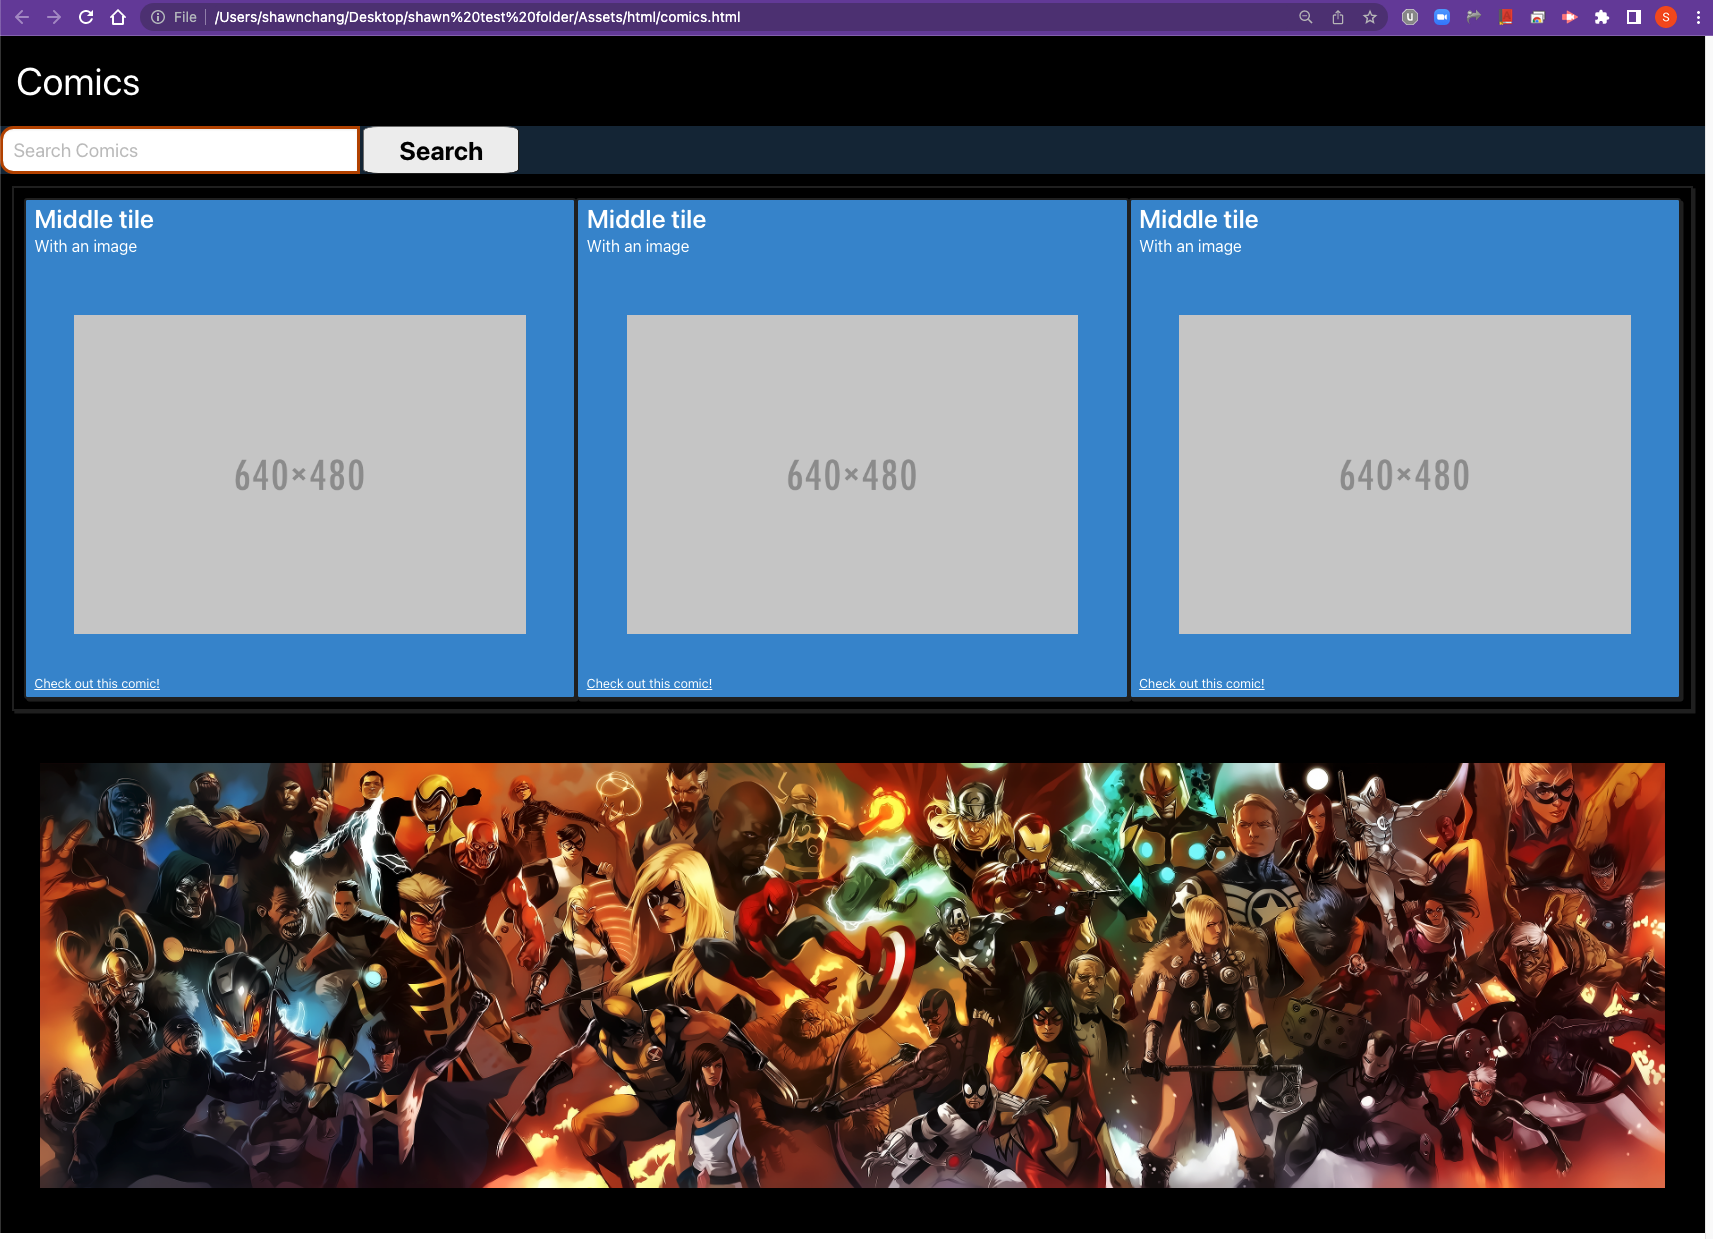
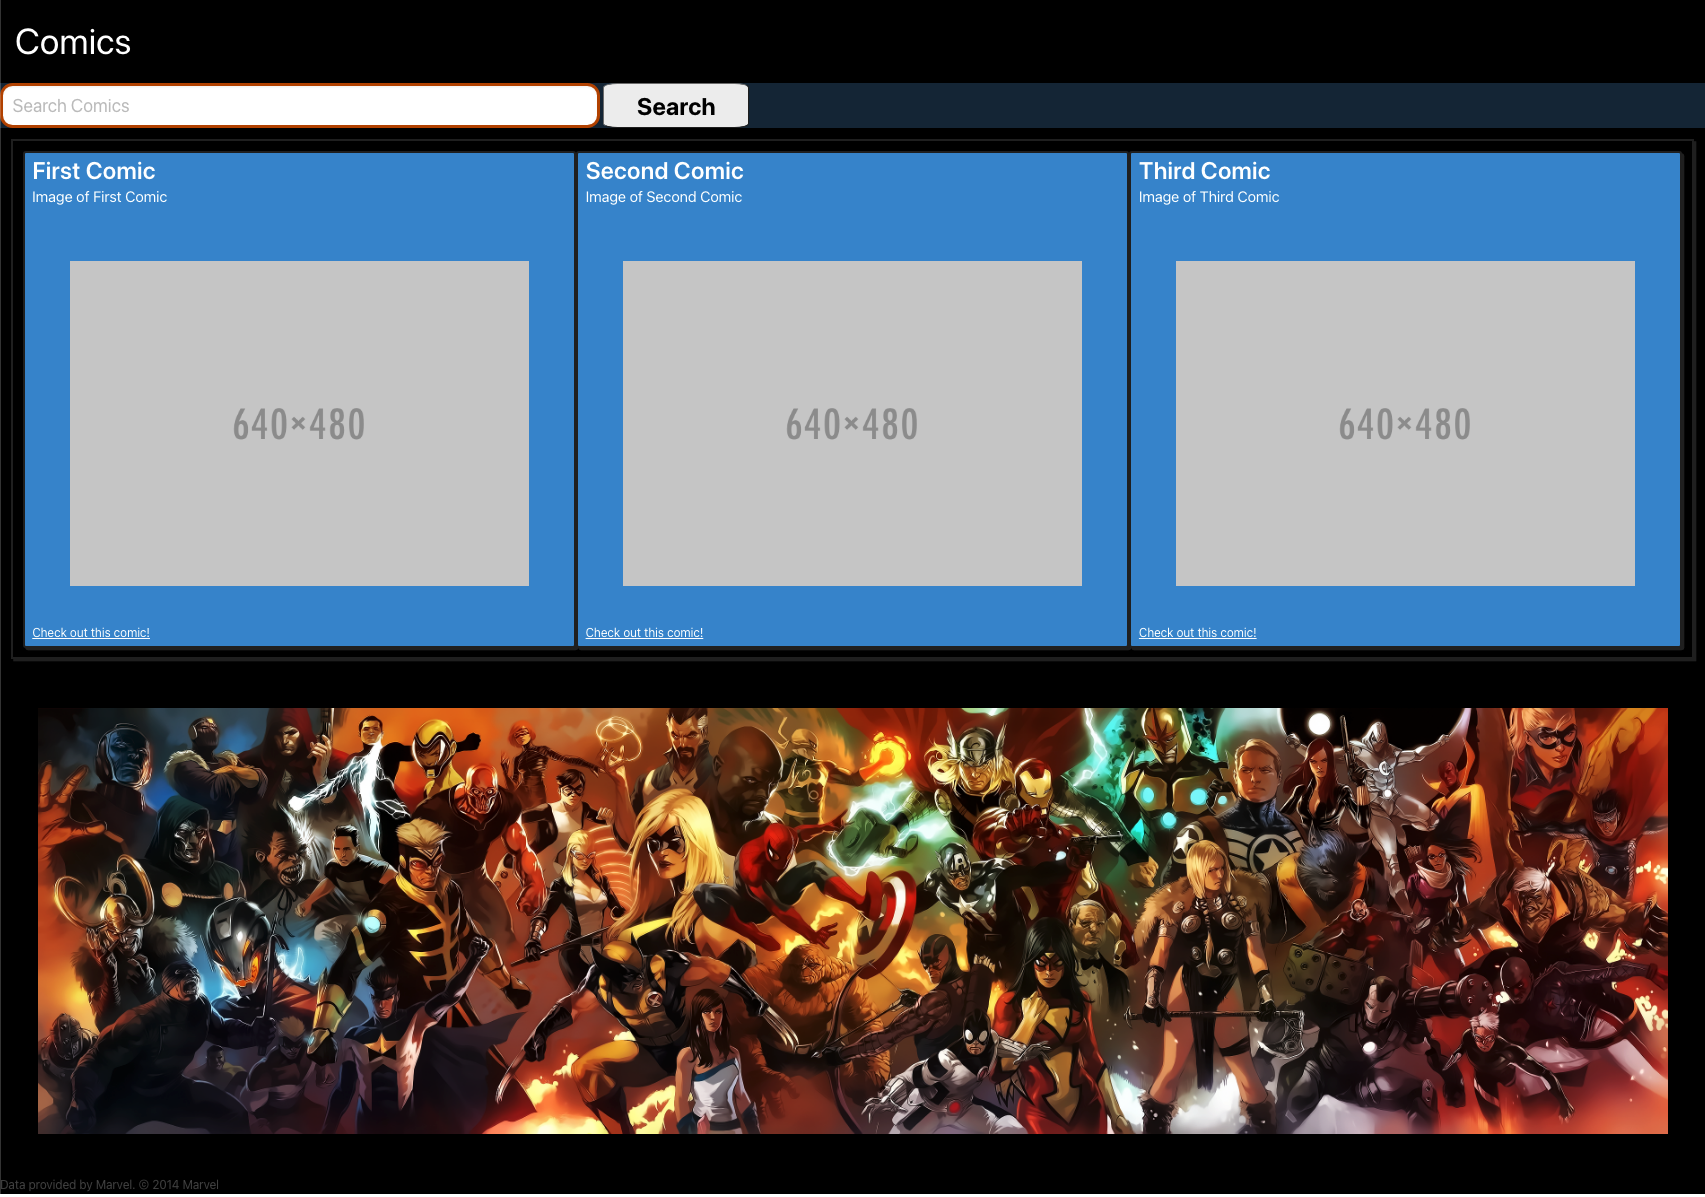
updated Comics html and style css

diff --git a/Assets/html/comics.html b/Assets/html/comics.html
@@ -23,24 +23,24 @@
 </main>
 <div class="tile is-parent">
     <article class="tile is-child notification is-info">
-        <p class="title" id="title1">Middle tile</p>
-        <p class="subtitle" id="sum1">With an image</p>
+        <p class="title" id="title1">First Comic</p>
+        <p class="subtitle" id="sum1">Image of First Comic</p>
         <figure class="image is-4by3">
           <img src="https://bulma.io/images/placeholders/640x480.png" id="comic1">
         </figure>
         <a id="link1">Check out this comic!</a>  
       </article>
       <article class="tile is-child notification is-info">
-        <p class="title" id="title2">Middle tile</p>
-        <p class="subtitle" id="sum2">With an image</p>
+        <p class="title" id="title2">Second Comic</p>
+        <p class="subtitle" id="sum2">Image of Second Comic</p>
         <figure class="image is-4by3">
           <img src="https://bulma.io/images/placeholders/640x480.png" id="comic2">
         </figure>
         <a id="link2">Check out this comic!</a> 
       </article>
     <article class="tile is-child notification is-info">
-      <p class="title" id="title3">Middle tile</p>
-      <p class="subtitle" id="sum3">With an image</p>
+      <p class="title" id="title3">Third Comic</p>
+      <p class="subtitle" id="sum3">Image of Third Comic</p>
       <figure class="image is-4by3">
         <img src="https://bulma.io/images/placeholders/640x480.png" id="comic3">
       </figure>
@@ -51,6 +51,7 @@
 
   <footer>
     <img src="..\images\banner.png" alt="marvel banner">
+    <h2>Data provided by Marvel. © 2014 Marvel</h2>
   </footer>
 
   <script src="https://cdnjs.cloudflare.com/ajax/libs/jquery/3.2.1/jquery.min.js"></script>

diff --git a/Assets/css/style.css b/Assets/css/style.css
@@ -71,9 +71,9 @@ img {
 #searchInput {
   border:#BA4A00 solid;
   border-width: .2em;
-  border-radius: .7em 0 0 .7em;
+  border-radius: .7em;
   padding: .2em .2em .2em .5em;
-  width: 450px;
+  width: 800px;
   font-size:x-large;
 }
 
@@ -96,6 +96,8 @@ img {
   border:3px solid #222;
   box-shadow:3px 3px 0 #222;
   /* border-radius:98% 98% 98% 98%; */
+  justify-content: space-between;
+  display:block;
 }
 
 
